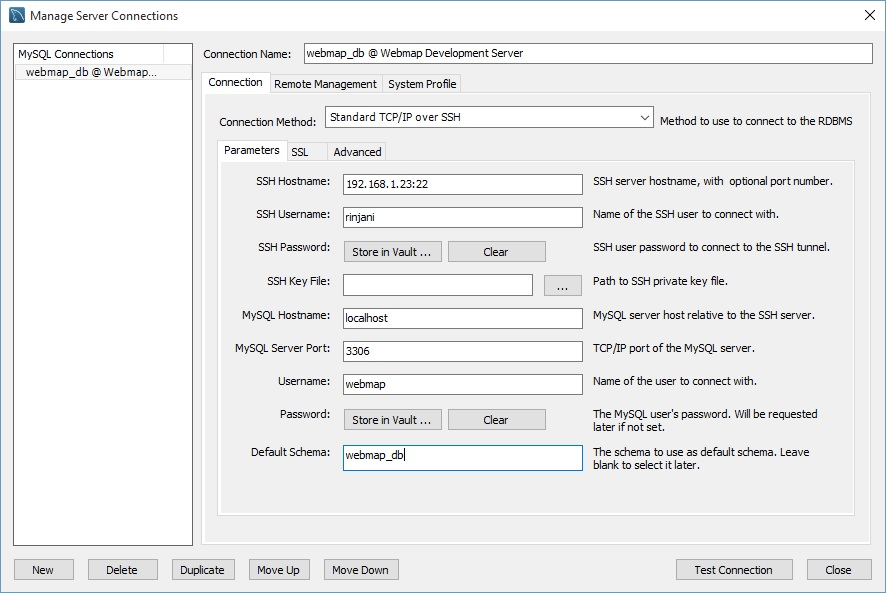
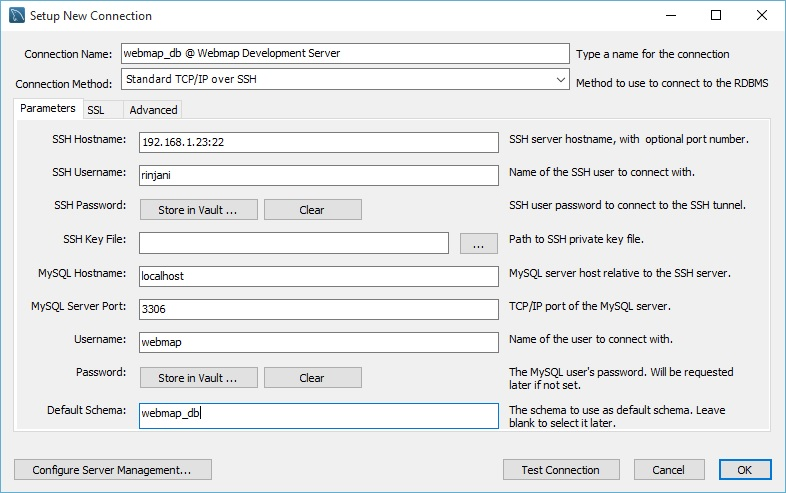
Improving last section of Part 5

diff --git a/fedora-geostack-part-5-mysql.md b/fedora-geostack-part-5-mysql.md
@@ -179,29 +179,37 @@ Berikut ini adalah langkah-langkah konfigurasi **MySQL Database** setelah prosed
   
   ![MySQL Workbench](./img/mysqlwb-01-start.jpg)
   
-  
+  Dialog **Setup New Connection** muncul, isi **Connection Name**: **webmap_db @ Webmap Development Server**, dan pada _drop-down_ **Connection Method** pilih **Standard TCP/IP over SSH**:
   
   ![MySQL Workbench](./img/mysqlwb-02-cc-method.jpg)
   
+  Kemudian lanjutkan dalam _tab_ **Parameters**, isikan **SSH Hostname**: **192.168.1.23:22** (port **22** adalah _default port_ untuk SSH), dan **SSH Username**: **rinjani**.
   
+  Untuk koneksi ke MySQL-nya, ubah entry **127.0.0.1** menjadi **localhost** pada **MySQL Hostname**, **MySQL Server Port**-nya tetap di **3306**, **Username**: **webmap**, dan **Default Schema** diisi dengan nama _database_ yang akan kita akses, yaitu **webmap_db**.
   
   ![MySQL Workbench](./img/mysqlwb-03-cc-completed.jpg)
   
+  Pastikan isian Anda sudah sesuai dengan environment yang Anda miliki, dan akhirnya klik OK.
   
+  Untuk memulai koneksi, double-click pintasan yang ada, seperti pada gambar berikut:
   
   ![MySQL Workbench](./img/mysqlwb-04-to-connect.jpg)
   
-  
+  Pertama kali yang muncul adalah Anda akan diminta untuk mengisi _password user_ OS-nya (Fedora Server), yang dalam contoh ini adalah _password_-nya **rinjani**.
   
   ![MySQL Workbench](./img/mysqlwb-05-ssh.jpg)
   
-  
+  Setelah sukses login _via_ SSH, baru Anda diminta untuk mengisi _password user_ **webmap** untuk masuk ke MySQL-nya.
   
   ![MySQL Workbench](./img/mysqlwb-06-mysql.jpg)
   
-  
+  Akhirnya, **MySQL Workbench** Anda sudah terhubung ke _database_ **webmap_db**, dan Anda dapat melakukan operasi-operasi _database_ sesuai kebutuhan Anda.
   
   ![MySQL Workbench](./img/mysqlwb-07-data.jpg)
+  
+Sampai tahap ini, Anda berarti sudah memiliki 2 database server yang berjalan, yaitu PostgreSQL/PostGIS dan MySQL Community Server.
+
+> Instalasi dan konfigurasi sebuah _tech-stack_ adalah sebuah _craftmanship_ -- semakin mendalam Anda menggali bagaimana sebuah komponen bekerja dalam ekosistemnya, _in-and-out_, maka semakin paham pula Anda terhadap seluruh ketidaksempurnaan yang pernah Anda jumpai dalam hidup.
 
 ### Related parts:
   * [Part 1](./README.md): Post-Installation / OS Configuration
